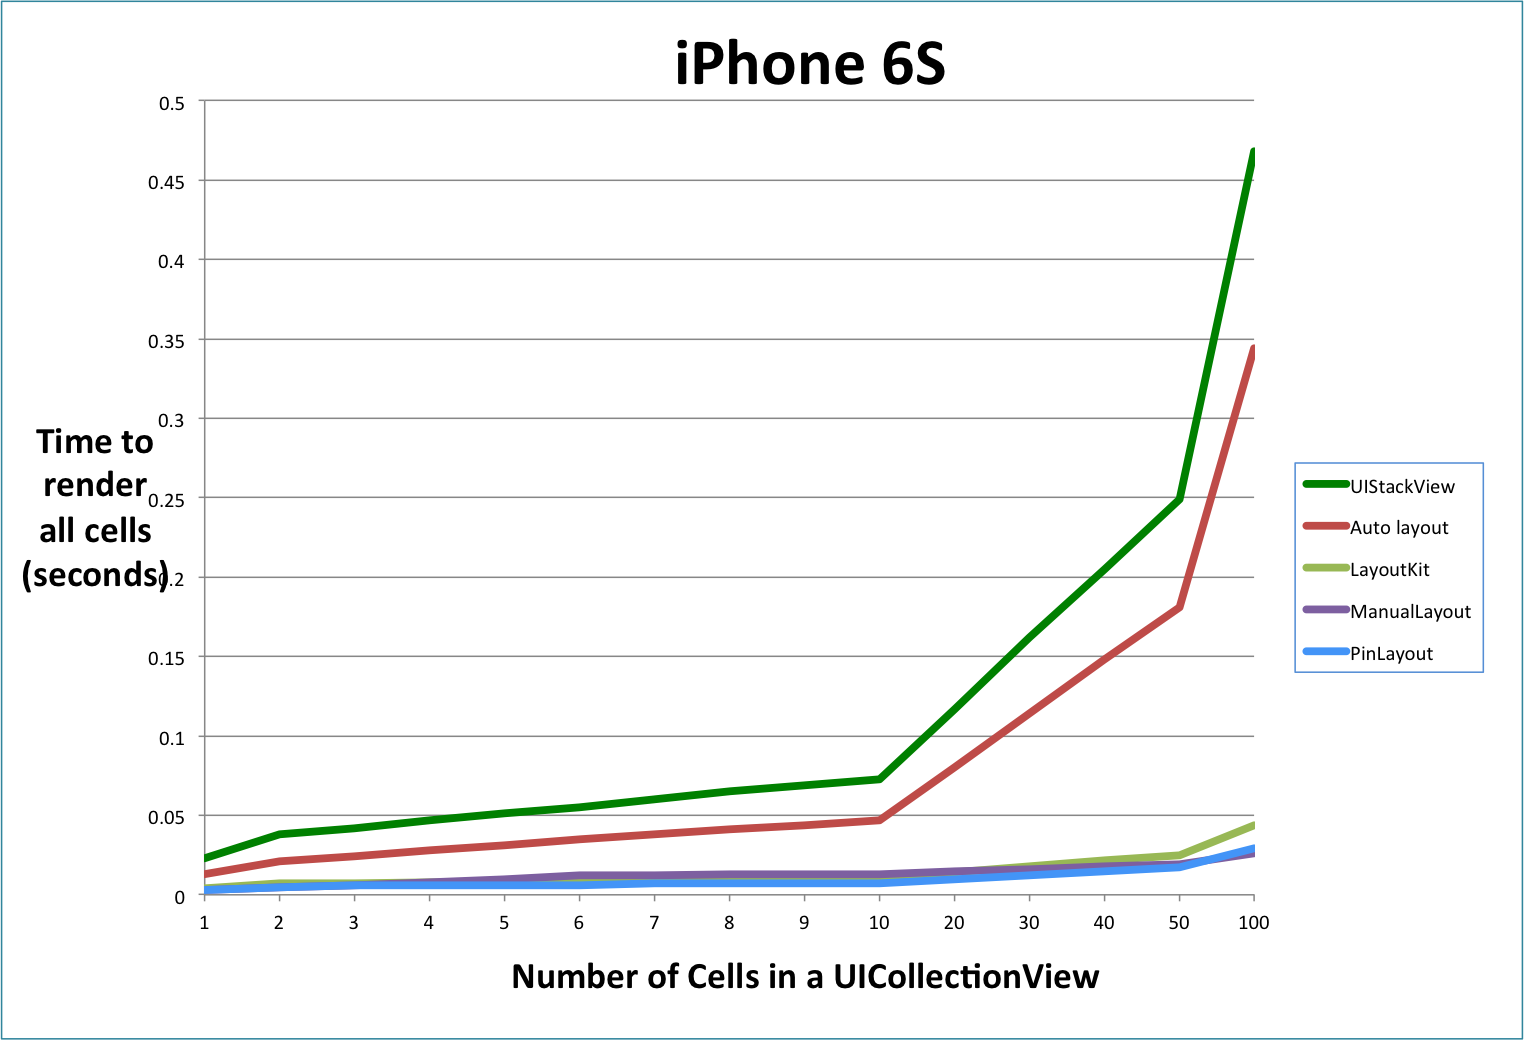
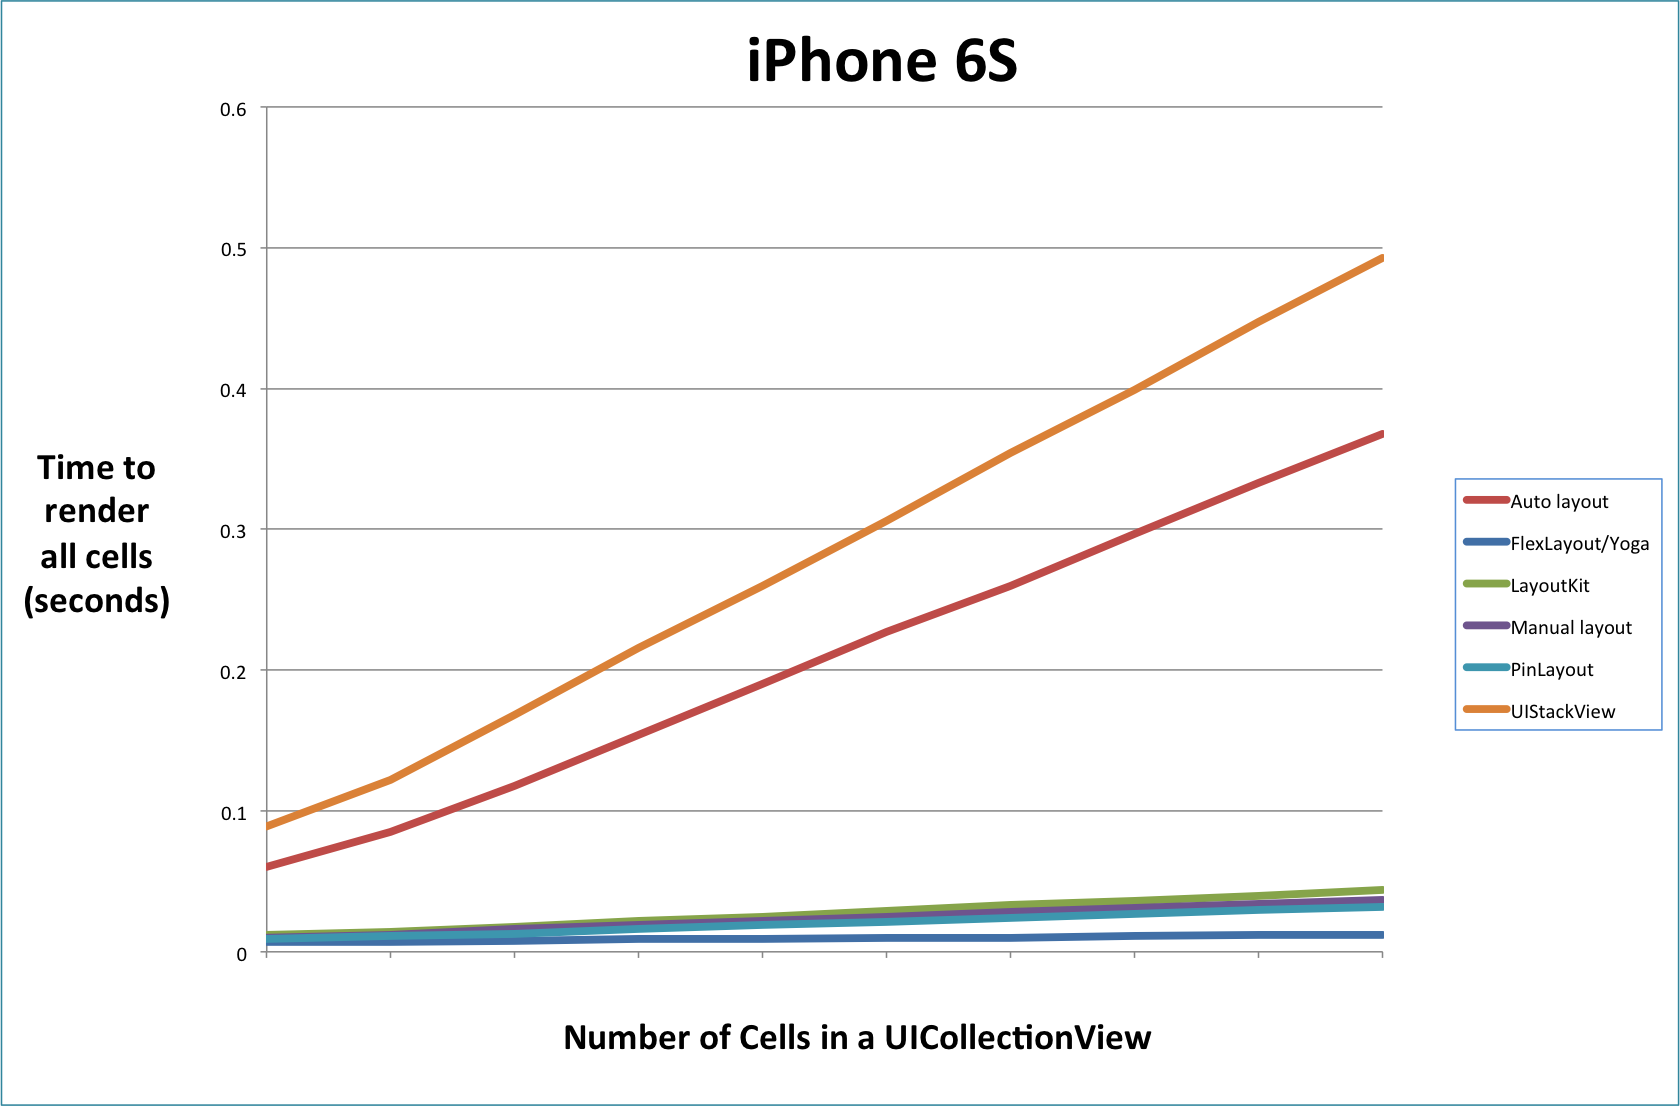
Update samples

diff --git a/LayoutFrameworkBenchmark/Benchmarks/Stopwatch.swift b/LayoutFrameworkBenchmark/Benchmarks/Stopwatch.swift
@@ -65,7 +65,7 @@ class Stopwatch {
             let opsPerSecond = NSString(format: "%8.2f", Double(iterationCount)/stopwatch.elapsedTime)
             let secondsPerOperation = NSString(format: "%8.3f", stopwatch.elapsedTime / Double(iterationCount))
             
-            print("\(opsPerSecond)\tops/s\t\(secondsPerOperation)\tseconds/ops\t\(iterations)\titerations\t\(name)\t")
+            print("\(opsPerSecond)\tops/s\t\(secondsPerOperation)\tseconds/ops\t\(iterations)\titerations\t\(name)")
         }
     }
 }

diff --git a/README.md b/README.md
@@ -38,10 +38,6 @@ Choosing the right layout framework for your project is an important decision. T
 Apple's auto layout constraints.  
 [Auto layout benchmark's source code](https://github.com/lucdion/LayoutFrameworkBenchmark/blob/master/LayoutFrameworkBenchmark/Benchmarks/AutoLayout/FeedItemAutoLayoutView.swift)
 
-* **Manual layout**  
-Layout is done by setting UIView's frame property directly.  
-[Manual layout benchmark's source code](https://github.com/lucdion/LayoutFrameworkBenchmark/blob/master/LayoutFrameworkBenchmark/Benchmarks/ManualLayout/FeedItemManualView.swift)
-
 * [**FlexLayout**](https://github.com/lucdion/FlexLayout)  
 FlexLayout adds a nice Swift interface to the highly optimized [Yoga](https://github.com/facebook/yoga) flexbox implementation. Concise, intuitive & chainable syntax.  
 [FlexLayout benchmark's source code](https://github.com/lucdion/LayoutFrameworkBenchmark/blob/master/LayoutFrameworkBenchmark/Benchmarks/FlexLayout/FeedItemFlexLayoutView.swift)
@@ -49,6 +45,10 @@ FlexLayout adds a nice Swift interface to the highly optimized [Yoga](https://gi
 * [**LayoutKit**](https://github.com/linkedin/LayoutKit)  
 LayoutKit is a fast view layout library for iOS, macOS, and tvOS.   
 [LayoutKit benchmark's source code](https://github.com/lucdion/LayoutFrameworkBenchmark/tree/master/LayoutFrameworkBenchmark/Benchmarks/LayoutKit)
+
+* **Manual layout**  
+Layout is done by setting UIView's frame property directly.  
+[Manual layout benchmark's source code](https://github.com/lucdion/LayoutFrameworkBenchmark/blob/master/LayoutFrameworkBenchmark/Benchmarks/ManualLayout/FeedItemManualView.swift)
 
 * [**PinLayout**](https://github.com/mirego/PinLayout)  
 Fast Swift UIViews layouting without auto layout. No magic, pure code, full control and blazing fast. Concise syntax, intuitive, readable & chainable.  
@@ -93,13 +93,17 @@ You can see the benchmark's raw data in this [spreadsheet](docs_markdown/benchma
 The **X axis** in following charts indicates the **number of cells** contained for each pass. The **Y axis** indicates the **number of seconds** to render all cells from one pass.
 
 <p align="center">
-  <a href="docs_markdown/benchmark_iphone5.png"><img src="docs_markdown/benchmark_iphone5.png" alt="PinLayout Performance"/></a>
-  
+  <a href="docs_markdown/benchmark_iphone7.png"><img src="docs_markdown/benchmark_iphone7.png" alt="PinLayout Performance"/></a>
+
 <p align="center">
+  <a href="docs_markdown/benchmark_iphone6S.png"><img src="docs_markdown/benchmark_iphone6S.png" alt="PinLayout Performance"/></a>
+
+<!--<p align="center">
   <a href="docs_markdown/benchmark_iphone6.png"><img src="docs_markdown/benchmark_iphone6.png" alt="PinLayout Performance"/></a>
 
 <p align="center">
-  <a href="docs_markdown/benchmark_iphone7.png"><img src="docs_markdown/benchmark_iphone7.png" alt="PinLayout Performance"/></a>
+  <a href="docs_markdown/benchmark_iphone5.png"><img src="docs_markdown/benchmark_iphone5.png" alt="PinLayout Performance"/></a>
+-->  
 
 <br>
 
@@ -122,6 +126,19 @@ For any **comments**, **ideas**, **suggestions**, simply open an [issue](https:/
 If you'd like to contribute by adding other layout framework, you're welcome!
 
 <br>
+
+## Adding another layout framework
+
+The process is currently tedious...
+ 
+* Add an implementation of the reference view.
+* Run on all reference devices (or at least the two latest generation) in **Release mode**.
+* Select the new layout from the Benchmark App.
+* Update the XLSX document.
+* Add a new chart
+* Save the chart using "Save as Picture..."
+* Update the README.md
+* Create a pull request.
 
 ## License
 BSD 3-Clause License 
